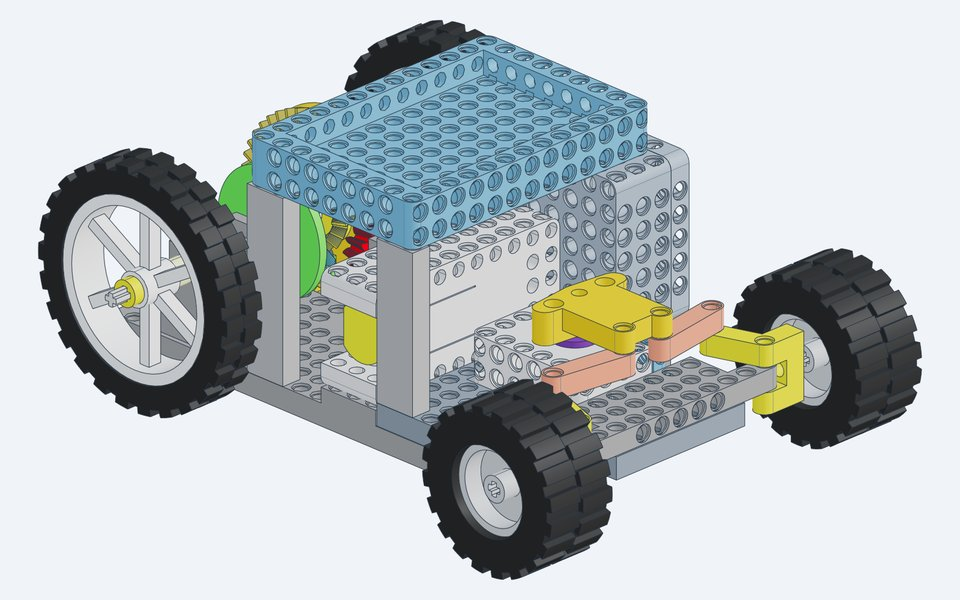
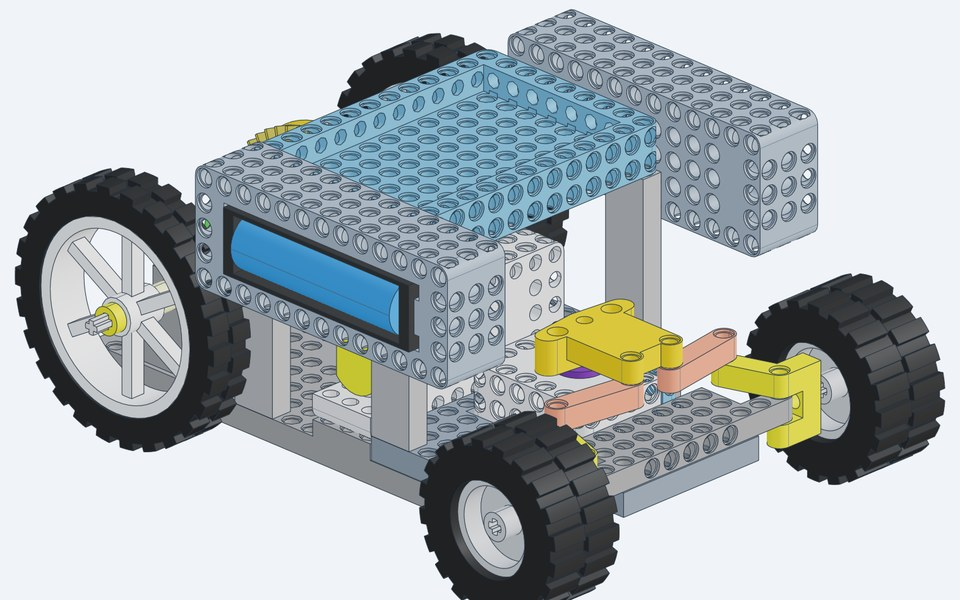
Autonomous car: batteries are now one 18650 on each side; new car thumbnail

diff --git a/autonomous/electronics/index.html b/autonomous/electronics/index.html
@@ -75,7 +75,7 @@
     <ul>
       <li><strong>驅動</strong>：TT 減速馬達 × 1 → 小齒輪 → 傘齒輪差速器 → 兩後輪（<a href="/3dp-portfolio/works/electric-differential.html" style="color:var(--blue-soft)">電動差速器</a>）</li>
       <li><strong>轉向</strong>：MG90S 伺服機 → 曲柄 → 兩支拉桿，阿克曼梯形（<a href="../../Mechanism/ackermann/" style="color:var(--blue-soft)">理論分析</a>）</li>
-      <li><strong>電源</strong>：3 × AAA 電池盒（4.5 V）；另有單顆 18650 的 Technic 電池座</li>
+      <li><strong>電源</strong>：兩側各一個 18650 電池座，掛在麵包板底座兩端（2 顆串聯 7.4 V）；原本的 3 × AAA 電池盒已拿掉</li>
       <li><strong>電路</strong>：半尺寸 400 孔麵包板，裝在車頂的 Technic 底座上</li>
     </ul>
     <p class="callout" style="margin-top:12px"><strong>結論</strong>：機構已經和真車一樣（後驅＋前輪阿克曼轉向），只要再加<strong>主控板、馬達驅動、電源、感測器</strong>四類元件。</p>
@@ -126,7 +126,7 @@
       <li>3 × AAA 只有 4.5 V，伺服機卡住時電流 <strong>0.7 A 以上</strong>，電壓一掉 ESP32 就會重開機</li>
       <li>改用 <strong>2 × 18650（7.4 V）</strong>：TB6612 的 VM 直接接電池，伺服機和邏輯電路走降壓後的 5 V</li>
       <li>TT 馬達額定 3～6 V：程式把 PWM 上限設在 <strong>約 70 %</strong>（平均約 5.2 V），避免過壓</li>
-      <li>目前的 18650 Technic 電池座是單顆，<strong>需要另做雙顆版</strong>（兩顆約 90 g）</li>
+      <li>車上已改成<strong>兩側各掛一顆 18650</strong>（兩顆約 90 g），導線從電池座四角的出線口拉到麵包板；另有雙顆並排的 Technic 底座可選</li>
     </ul>
     <div class="tablewrap" style="margin-top:12px"><table>
       <thead><tr><th>負載</th><th>電源</th><th>平常</th><th>峰值</th></tr></thead>
@@ -245,8 +245,8 @@ Pure Pursuit 轉向角  δ = atan( 2 L sin α / Ld )
     <h2 class="sec">機構面要配合的事</h2>
     <ul>
       <li><strong>感測器支架</strong>：做成 LEGO Technic 相容，用 pin 插在底盤上，循跡模組在車頭下方、ToF 在車頭前緣、攝影機在車頂</li>
-      <li><strong>雙 18650 電池座</strong>：沿用單顆電池座的 Technic 外框做法，改成兩顆並排</li>
-      <li><strong>重心</strong>：電池放低、放在兩軸之間；攝影機桅桿不要太高，避免轉彎翻車</li>
+      <li><strong>18650 電池座</strong>：已完成，兩側各一個，用水平 2L 銷掛在麵包板底座兩端，開口朝外、換電池不用拆車</li>
+      <li><strong>重心</strong>：電池座在兩軸之間、左右對稱，但高度在離地 64～103 mm，重心偏高；攝影機桅桿不要太高，轉彎先減速，避免翻車</li>
       <li><strong>麵包板配置</strong>：依<a href="#wiring" style="color:var(--blue-soft)">接線圖</a>排定 ESP32、TB6612 在 400 孔麵包板上的位置，感測器線材走底盤下方</li>
     </ul>
   </section>

diff --git a/autonomous/index.html b/autonomous/index.html
@@ -48,11 +48,11 @@
     </a>
 
     <a class="card" href="/3dp-portfolio/works/car-model.html">
-      <div class="media"><img src="thumb.jpg" width="960" height="600" alt="差速轉向車前斜視圖：上方淺藍色麵包板底座，前輪由黃色曲柄與拉桿轉向"></div>
+      <div class="media"><img src="thumb.jpg" width="960" height="600" alt="差速轉向車前斜視圖：上方淺藍色麵包板底座、兩側各掛一個 18650 電池座，前輪由黃色曲柄與拉桿轉向"></div>
       <div class="body">
         <h2>差速轉向車 3D 模型<span class="en">Car Model</span></h2>
         <ul>
-          <li>電動差速器＋MG90S 阿克曼轉向＋電池盒＋麵包板底座</li>
+          <li>電動差速器＋MG90S 阿克曼轉向＋兩側 18650 電池座＋麵包板底座</li>
           <li>LEGO Technic 相容，4 盤 28 件，FCStd／3MF 下載與組裝動畫</li>
         </ul>
         <div class="meta"><span class="tag">3D 列印</span><span class="tag">FCStd</span><span class="tag">3MF</span></div>
